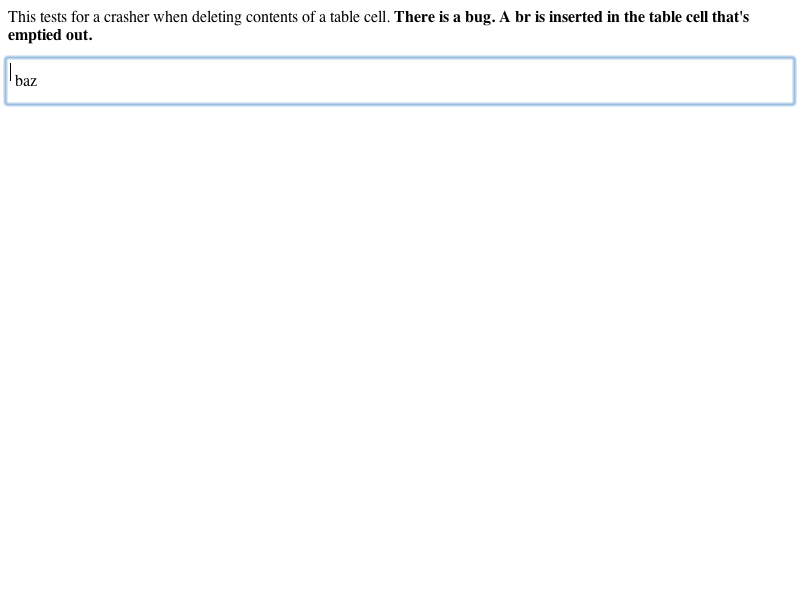
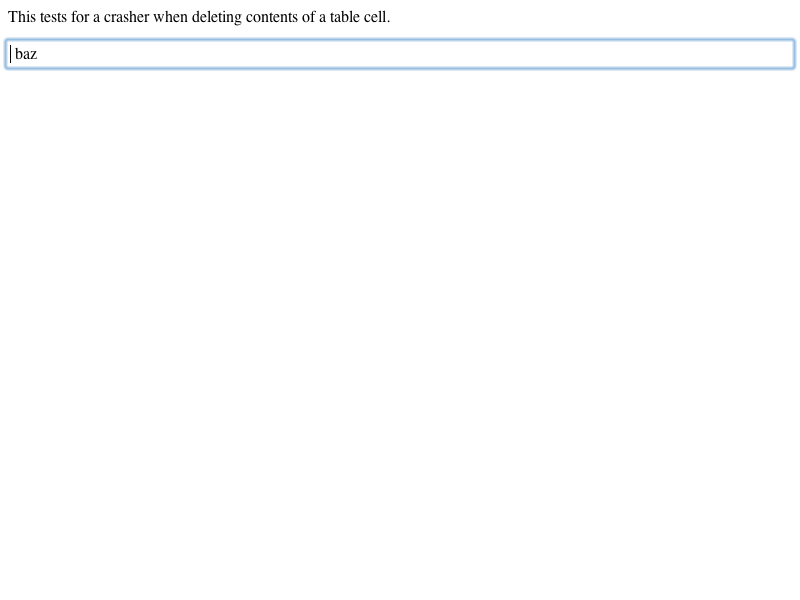
LayoutTests:
Reviewed by John.

        <rdar://problem/5290534> Crash RenderTextControl::calcHeight() after deleting text in a search field

        Demonstrates the bug:
        * editing/deleting/5290534-expected.txt: Added.
        * editing/deleting/5290534.html: Added.

        Fixed a bug (an extra br was inserted) and removed a FIXME:
        * editing/deleting/4845371-expected.checksum:
        * editing/deleting/4845371-expected.png:
        * editing/deleting/4845371-expected.txt:
        * editing/deleting/4845371.html:

        Removed an unrendered br that was being incorrectly inserted:
        * editing/deleting/5126166-expected.txt:

WebCore:

        Reviewed by John.

        <rdar://problem/5290534> Crash at RenderTextControl::calcHeight() after deleting text in a search field

        Editing removed a node that was part of a search field's internal
        structure that should not be removed.

        * editing/DeleteSelectionCommand.cpp:
        (WebCore::DeleteSelectionCommand::handleGeneralDelete): If the
        selection to delete ends at [container, x], where x is the number
        of children in container, don't remove container.  Special case
        code elsewhere in this function will remove it if necessary.

Identifier: 18570@main
git-svn-id: https://svn.webkit.org/repository/webkit/trunk@23787 268f45cc-cd09-0410-ab3c-d52691b4dbfc

Changed region(s): [[0.0, 0.0, 1.0, 0.18]]

diff --git a/LayoutTests/editing/deleting/5290534.html b/LayoutTests/editing/deleting/5290534.html
@@ -1,0 +1,25 @@
+<p>This tests for a crash when adding/removing content from a search field that is inside an editable region.</p>
+
+<div contenteditable="true"><input id="search" type="search"></div>
+<ul id="console"></ul>
+
+<script>
+function log(msg)
+{
+    li = document.createElement("li");
+    li.appendChild(document.createTextNode(msg));
+    document.getElementById("console").appendChild(li);
+}
+
+if (window.layoutTestController)
+    window.layoutTestController.dumpAsText();
+    
+var search = document.getElementById("search");
+search.setSelectionRange(0, 0);
+document.execCommand("InsertText", false, "x");
+if (search.value != "x")
+    log("Failure: text wasn't added to the search field.");
+document.execCommand("Delete");
+if (search.value == "")
+    log("Success! Test successfully removed text from the search field.");
+</script>

diff --git a/LayoutTests/editing/deleting/4845371.html b/LayoutTests/editing/deleting/4845371.html
@@ -1,4 +1,4 @@
-<p>This tests for a crasher when deleting contents of a table cell. <b>There is a bug.  A br is inserted in the table cell that's emptied out.</b></p>
+<p>This tests for a crasher when deleting contents of a table cell.</p>
 <div id="div" contenteditable="true"><table><tr><td>foo <a href="http://www.google.com/">bar</a></td><td>baz</td></tr></table></div>
 
 <script src="../editing.js"></script>

diff --git a/WebCore/editing/DeleteSelectionCommand.cpp b/WebCore/editing/DeleteSelectionCommand.cpp
@@ -410,11 +410,8 @@ void DeleteSelectionCommand::handleGeneralDelete()
         }
         
         if (m_downstreamEnd.node() != startNode && !m_upstreamStart.node()->isDescendantOf(m_downstreamEnd.node()) && m_downstreamEnd.node()->inDocument() && m_downstreamEnd.offset() >= m_downstreamEnd.node()->caretMinOffset()) {
-            if (m_downstreamEnd.offset() >= maxDeepOffset(m_downstreamEnd.node())) {
-                // need to delete whole node
-                // we can get here if this is the last node in the block
-                // remove an ancestor of m_downstreamEnd.node(), and thus m_downstreamEnd.node() itself
-                // FIXME: Shouldn't remove m_downstreamEnd.node() if its offsets refer to children.
+            if (m_downstreamEnd.offset() >= maxDeepOffset(m_downstreamEnd.node()) && !canHaveChildrenForEditing(m_downstreamEnd.node())) {
+                // The node itself is fully selected, not just its contents.  Delete it.
                 removeNode(m_downstreamEnd.node());
             } else {
                 if (m_downstreamEnd.node()->isTextNode()) {
